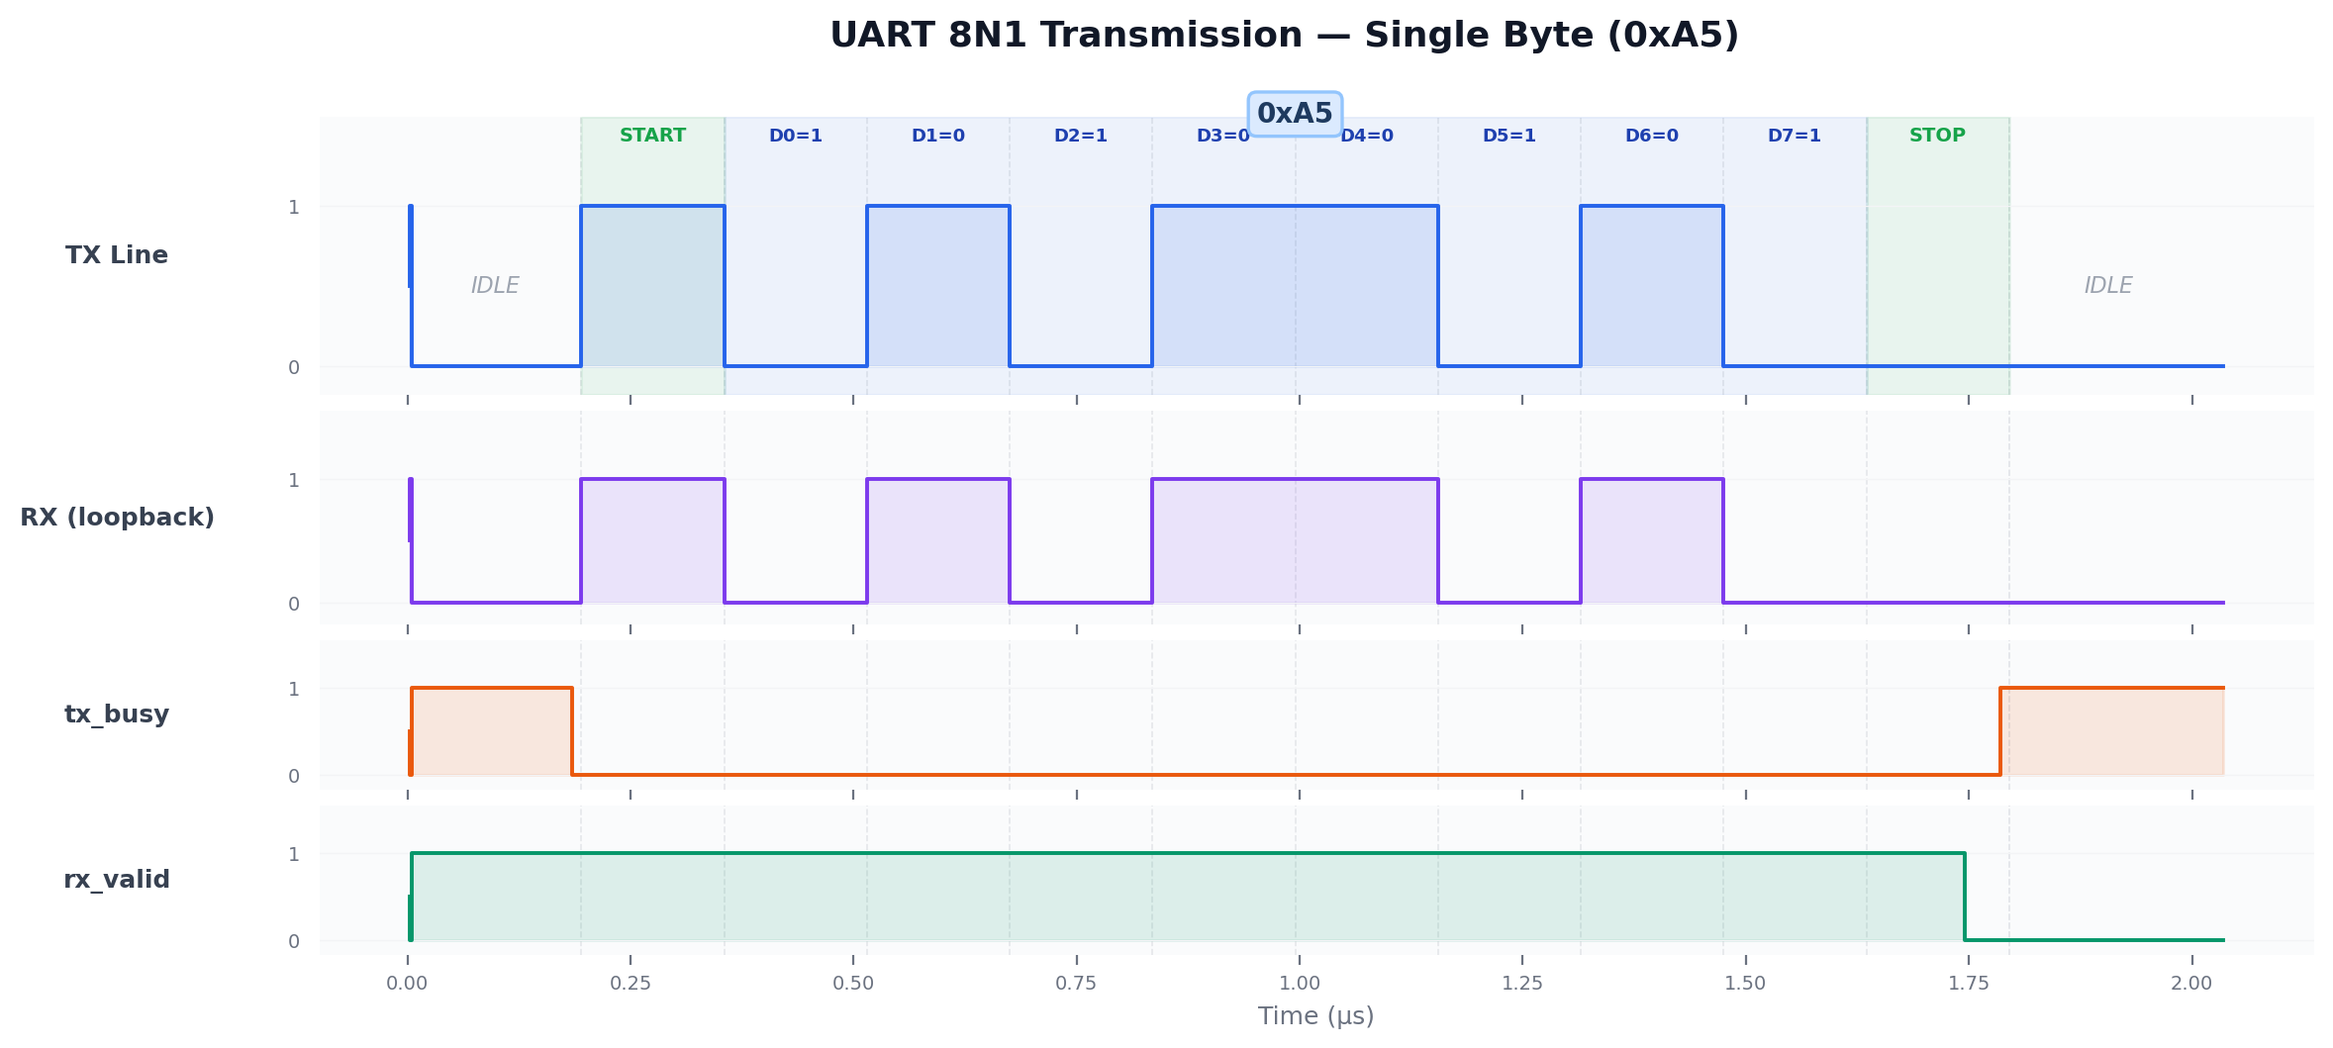
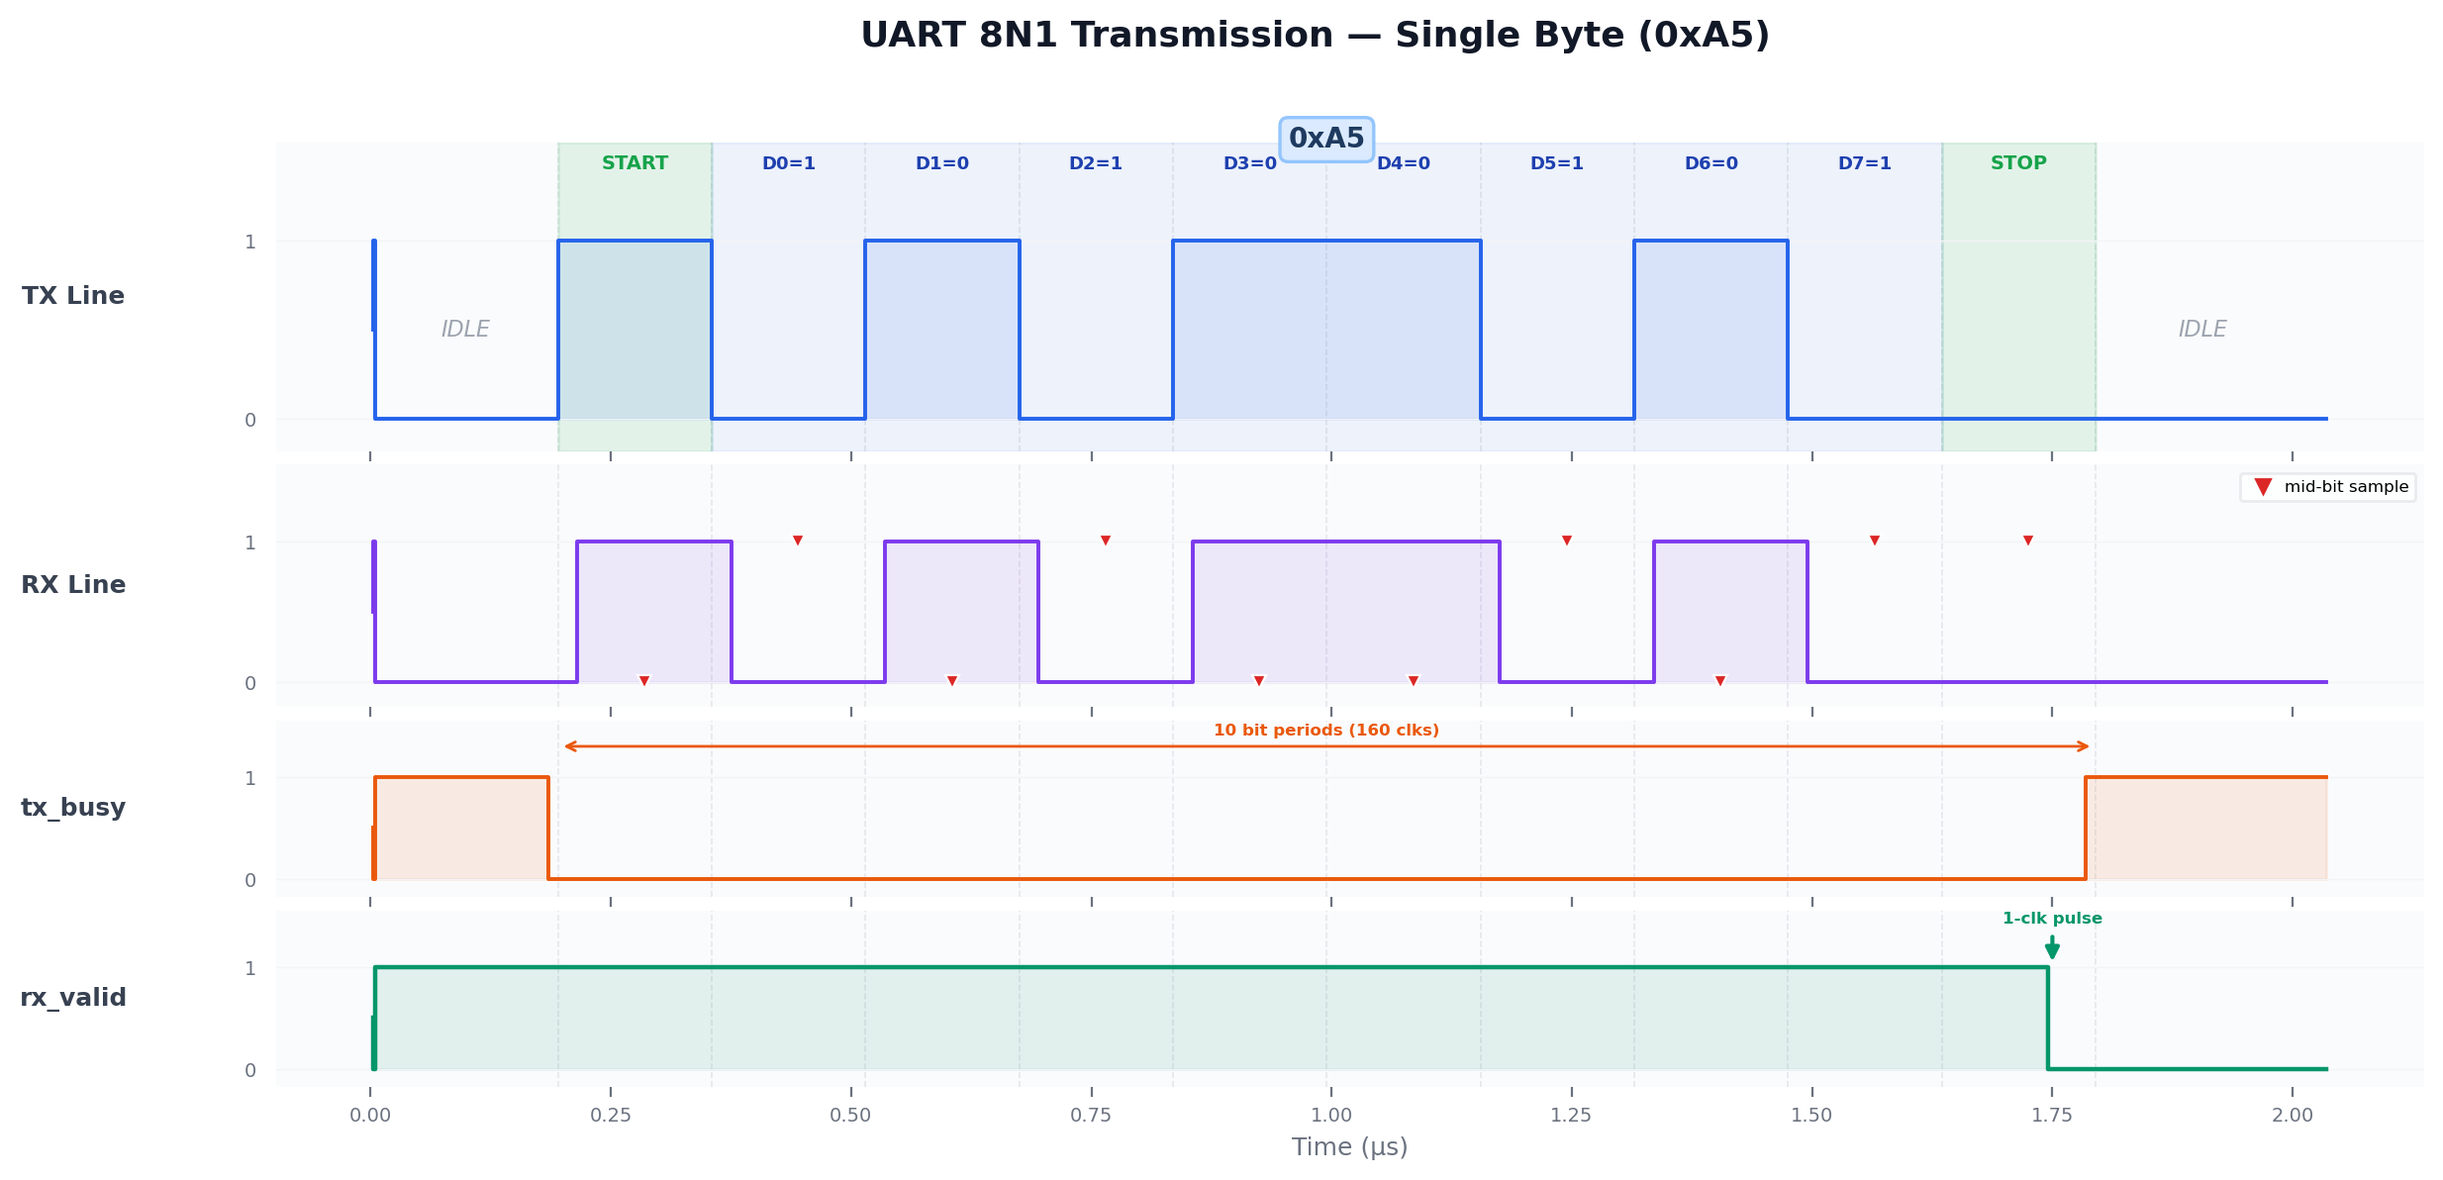
fix: industry-accurate waveforms with mid-bit sampling and pulse markers
Address 6-point waveform critique for RTL accuracy:
- tx_busy rendered as sustained HIGH for full frame duration (10 bit periods)
- rx_valid shown as true 1-clock pulse with arrow markers and labels
- Mid-bit sampling points marked with red triangles on RX line
- Frame boundaries clearly delineated with dashed lines and S/P labels
- FIFO burst inter-frame 2T gaps explicitly annotated on tx_busy
- All signals plotted directly from VCD transitions (no interpolation)

diff --git a/docs/gen_waveforms.py b/docs/gen_waveforms.py
@@ -3,12 +3,14 @@
 
 Produces two images:
   1. uart_8n1_waveform.png  — A single 8N1 byte (0xA5) with exact bit
-     boundaries, start/data/stop annotations, and rx_valid confirmation.
+     boundaries, start/data/stop annotations, mid-bit sampling markers,
+     and a clearly visible rx_valid single-clock pulse.
   2. uart_fifo_burst.png    — FIFO burst of 4 bytes (0x11–0x44) showing
-     near-zero idle between frames.
+     continuous tx_busy, near-zero idle between frames, and 4 rx_valid
+     pulses.
 
-The waveforms are plotted directly from VCD transitions (no interpolation)
-so every edge is pixel-accurate.
+Waveforms are plotted directly from VCD transitions (no interpolation)
+so every edge is pixel-accurate to the RTL simulation.
 """
 
 import os
@@ -116,6 +118,24 @@ def transitions_to_step(events, t_start, t_end):
     return np.array(ts, dtype=float), np.array(vs, dtype=float)
 
 
+def find_pulse_times(events, t_start, t_end):
+    """Find rising edges of single-clock pulses within a window.
+
+    Returns list of (rise_time, fall_time) in ps.
+    """
+    pulses = []
+    for i, (t, v) in enumerate(events):
+        if t < t_start or t > t_end:
+            continue
+        if v == '1' and i > 0 and events[i-1][1] == '0':
+            # Find the corresponding fall
+            t_fall = t_end
+            if i + 1 < len(events) and events[i+1][1] == '0':
+                t_fall = events[i+1][0]
+            pulses.append((t, t_fall))
+    return pulses
+
+
 # ---------------------------------------------------------------------------
 # Styling
 # ---------------------------------------------------------------------------
@@ -125,7 +145,7 @@ COLORS = {
     "rx":       "#7C3AED",
     "busy":     "#EA580C",
     "valid":    "#059669",
-    "done":     "#DC2626",
+    "sample":   "#DC2626",
 }
 
 
@@ -138,11 +158,11 @@ def style_axis(ax):
     ax.grid(axis="y", color="#F3F4F6", linewidth=0.5)
 
 
-def plot_signal(ax, times_ps, values, color, label, t_scale=1e6):
+def plot_signal(ax, times_ps, values, color, label, lw=1.4, t_scale=1e6):
     """Plot a single digital waveform with fill."""
     t = times_ps / t_scale  # ps → µs
-    ax.fill_between(t, 0, values, step="pre", alpha=0.12, color=color)
-    ax.step(t, values, where="pre", linewidth=1.4, color=color)
+    ax.fill_between(t, 0, values, step="pre", alpha=0.10, color=color)
+    ax.step(t, values, where="pre", linewidth=lw, color=color)
     ax.set_ylim(-0.18, 1.55)
     ax.set_yticks([0, 1])
     ax.set_yticklabels(["0", "1"], fontsize=7, color="#6B7280")
@@ -156,6 +176,7 @@ def plot_signal(ax, times_ps, values, color, label, t_scale=1e6):
 
 def plot_single_byte(data, out_path):
     BIT = 160_000  # ps per UART bit (16 clocks × 10 ns)
+    CLK = 10_000   # ps per clock
 
     # Exact start-bit time from VCD: first 1→0 on TX after idle
     tx_events = get_signal(data, "u_tx.tx")
@@ -175,23 +196,93 @@ def plot_single_byte(data, out_path):
     t0 = start_t - int(1.2 * BIT)
     t1 = start_t + int(11.5 * BIT)
 
-    fig, axes = plt.subplots(4, 1, figsize=(13, 5.5), sharex=True,
-                              gridspec_kw={"hspace": 0.08,
-                                           "height_ratios": [1.3, 1.0, 0.7, 0.7]})
+    fig, axes = plt.subplots(4, 1, figsize=(14, 6.2), sharex=True,
+                              gridspec_kw={"hspace": 0.06,
+                                           "height_ratios": [1.4, 1.1, 0.8, 0.8]})
     fig.patch.set_facecolor("white")
 
-    signals = [
-        ("u_tx.tx",       "TX Line",       COLORS["tx"]),
-        ("loopback",      "RX (loopback)", COLORS["rx"]),
-        ("u_tx.tx_busy",  "tx_busy",       COLORS["busy"]),
-        ("u_rx.rx_valid", "rx_valid",      COLORS["valid"]),
-    ]
+    # --- TX Line ---
+    tx_ts, tx_vs = transitions_to_step(tx_events, t0, t1)
+    plot_signal(axes[0], tx_ts, tx_vs, COLORS["tx"], "TX Line")
+    style_axis(axes[0])
 
-    for ax, (sig_suffix, label, color) in zip(axes, signals):
-        events = get_signal(data, sig_suffix)
-        ts, vs = transitions_to_step(events, t0, t1)
-        plot_signal(ax, ts, vs, color, label)
-        style_axis(ax)
+    # --- RX (loopback) — same as TX but delayed through 2-FF sync ---
+    rx_events = get_signal(data, "u_rx.rx_sync")
+    if not rx_events:
+        # Fallback: use u_tx.tx as proxy (loopback with negligible delay)
+        rx_events = tx_events
+    rx_ts, rx_vs = transitions_to_step(rx_events, t0, t1)
+    plot_signal(axes[1], rx_ts, rx_vs, COLORS["rx"], "RX Line")
+    style_axis(axes[1])
+
+    # --- Mid-bit sampling markers on RX ---
+    # The RX FSM samples data at baud_tick (every CLKS_PER_BIT clocks after
+    # the half-baud start-bit confirmation). We derive sampling points from
+    # bit_idx transitions.
+    bit_idx_events = get_signal(data, "u_rx.bit_idx")
+    # Sampling points: when bit_idx increments (each baud_tick in S_DATA)
+    # Also: the start-bit confirmation is at half_baud_tick
+    # Start bit mid-sample: start_t + (CLKS_PER_BIT/2 - 1) * CLK
+    # In our sim, CLKS_PER_BIT=16, so half = 7 clocks = 70,000 ps after
+    # the RX sync detects the falling edge. The RX sync is 2 clocks behind TX.
+    rx_sync_delay = 2 * CLK  # 2 FF synchronizer delay
+    rx_start_detect = start_t + rx_sync_delay  # when rx_sync goes low
+    half_baud = (16 // 2) * CLK  # 8 clocks = 80,000 ps
+
+    # Start bit mid-sample point (confirmation)
+    start_mid_sample = rx_start_detect + half_baud - CLK  # half_baud_tick fires at cnt=7
+
+    # Data bit sample points: each CLKS_PER_BIT after the start confirmation
+    sample_points = [start_mid_sample]  # start bit confirmation
+    for i in range(8):
+        sample_points.append(start_mid_sample + (i + 1) * BIT)
+    # Stop bit sample point
+    sample_points.append(start_mid_sample + 9 * BIT)
+
+    # Plot sampling markers on RX axis
+    for sp in sample_points:
+        if t0 <= sp <= t1:
+            sp_us = sp / 1e6
+            # Get RX value at this point
+            rx_val = 0.5
+            for t, v in rx_events:
+                if t <= sp:
+                    rx_val = 1.0 if v == '1' else 0.0
+                else:
+                    break
+            axes[1].plot(sp_us, rx_val, marker='v', markersize=5,
+                        color=COLORS["sample"], zorder=5, markeredgewidth=0.8,
+                        markeredgecolor="white")
+
+    # Sampling legend on RX axis
+    axes[1].plot([], [], marker='v', markersize=5, color=COLORS["sample"],
+                linestyle='none', label="mid-bit sample")
+    axes[1].legend(loc="upper right", fontsize=6, framealpha=0.8,
+                  edgecolor="#E5E7EB", handletextpad=0.3)
+
+    # --- tx_busy ---
+    busy_events = get_signal(data, "u_tx.tx_busy")
+    busy_ts, busy_vs = transitions_to_step(busy_events, t0, t1)
+    plot_signal(axes[2], busy_ts, busy_vs, COLORS["busy"], "tx_busy")
+    style_axis(axes[2])
+
+    # --- rx_valid (single-clock pulse) ---
+    valid_events = get_signal(data, "u_rx.rx_valid")
+    valid_ts, valid_vs = transitions_to_step(valid_events, t0, t1)
+    plot_signal(axes[3], valid_ts, valid_vs, COLORS["valid"], "rx_valid", lw=1.6)
+    style_axis(axes[3])
+
+    # Mark the rx_valid pulse with a prominent triangle marker since
+    # a 1-clock pulse (10ns) is very narrow at this time scale
+    valid_pulses = find_pulse_times(valid_events, t0, t1)
+    for vp_rise, vp_fall in valid_pulses:
+        vp_mid = (vp_rise + vp_fall) / 2 / 1e6
+        # Arrow pointing down to the pulse
+        axes[3].annotate("", xy=(vp_mid, 1.0), xytext=(vp_mid, 1.35),
+                        arrowprops=dict(arrowstyle="-|>", color=COLORS["valid"],
+                                       lw=1.5, mutation_scale=10))
+        axes[3].text(vp_mid, 1.40, "1-clk pulse", ha="center", va="bottom",
+                    fontsize=6, color=COLORS["valid"], fontweight="bold")
 
     ax_tx = axes[0]
 
@@ -200,35 +291,28 @@ def plot_single_byte(data, out_path):
         t_line = (start_t + i * BIT) / 1e6
         for ax in axes:
             ax.axvline(t_line, color="#E5E7EB", linewidth=0.6, linestyle="--", zorder=0)
-    # End of stop bit
-    t_stop_end = (start_t + 10 * BIT) / 1e6
-    for ax in axes:
-        ax.axvline(t_stop_end, color="#E5E7EB", linewidth=0.6, linestyle="--", zorder=0)
 
-    # --- Shaded regions ---
-    # Start bit
+    # --- Shaded regions for frame structure ---
+    # Start bit — green tint
     ax_tx.axvspan(start_t / 1e6, (start_t + BIT) / 1e6,
-                  alpha=0.08, color="#16A34A", zorder=0)
-    # Data bits
+                  alpha=0.10, color="#16A34A", zorder=0)
+    # Data region — blue tint
     ax_tx.axvspan((start_t + BIT) / 1e6, (start_t + 9 * BIT) / 1e6,
                   alpha=0.06, color="#2563EB", zorder=0)
-    # Stop bit
+    # Stop bit — green tint
     ax_tx.axvspan((start_t + 9 * BIT) / 1e6, (start_t + 10 * BIT) / 1e6,
-                  alpha=0.08, color="#16A34A", zorder=0)
+                  alpha=0.10, color="#16A34A", zorder=0)
 
     # --- Bit labels ---
-    # Start
     t_mid = (start_t + BIT / 2) / 1e6
     ax_tx.text(t_mid, 1.38, "START", ha="center", va="bottom", fontsize=7,
                fontweight="bold", color="#16A34A")
 
-    # Data bits
     for i, b in enumerate(data_bits):
         t_mid = (start_t + (1 + i) * BIT + BIT / 2) / 1e6
         ax_tx.text(t_mid, 1.38, f"D{i}={b}", ha="center", va="bottom",
                    fontsize=6.5, fontweight="bold", color="#1E40AF")
 
-    # Stop
     t_mid = (start_t + 9 * BIT + BIT / 2) / 1e6
     ax_tx.text(t_mid, 1.38, "STOP", ha="center", va="bottom", fontsize=7,
                fontweight="bold", color="#16A34A")
@@ -248,9 +332,19 @@ def plot_single_byte(data, out_path):
     ax_tx.text(t_idle_r, 0.5, "IDLE", ha="center", va="center",
                fontsize=8, color="#9CA3AF", fontstyle="italic")
 
+    # --- Frame duration bracket on tx_busy ---
+    busy_start = start_t / 1e6
+    busy_end = (start_t + 10 * BIT) / 1e6
+    axes[2].annotate("", xy=(busy_start, 1.30), xytext=(busy_end, 1.30),
+                    arrowprops=dict(arrowstyle="<->", color=COLORS["busy"],
+                                   lw=1.0, mutation_scale=8))
+    axes[2].text((busy_start + busy_end) / 2, 1.38, "10 bit periods (160 clks)",
+                ha="center", va="bottom", fontsize=6, color=COLORS["busy"],
+                fontweight="bold")
+
     axes[-1].set_xlabel("Time (µs)", fontsize=9, color="#6B7280")
     fig.suptitle("UART 8N1 Transmission — Single Byte (0xA5)",
-                 fontsize=13, fontweight="bold", color="#111827", y=0.97)
+                 fontsize=13, fontweight="bold", color="#111827", y=0.98)
 
     plt.savefig(out_path, dpi=200, bbox_inches="tight",
                 facecolor="white", edgecolor="none")
@@ -264,10 +358,8 @@ def plot_single_byte(data, out_path):
 
 def plot_fifo_burst(data, out_path):
     BIT = 160_000  # ps per UART bit
+    CLK = 10_000   # ps per clock
 
-    # Identify burst frames from tx_busy: the 4 consecutive frames where
-    # FIFO stays non-empty (test 4). FIFO empty signal shows it stays
-    # non-empty from ~15.885 us to ~20.735 us.
     busy_events = get_signal(data, "u_tx.tx_busy")
 
     # Find rising edges of tx_busy (frame starts)
@@ -282,10 +374,8 @@ def plot_fifo_burst(data, out_path):
         if v == '0' and i > 0 and busy_events[i-1][1] == '1':
             frame_ends.append(t)
 
-    # The FIFO burst (test 4) has uniquely tight inter-frame gaps: the FIFO
-    # feeds the TX with only ~2 clock cycles (~20,000 ps) between frames,
-    # whereas testbench-driven sends have ~60,000+ ps gaps.  Find 4
-    # consecutive frames whose 3 inter-frame gaps are all < 30,000 ps.
+    # The FIFO burst (test 4) has uniquely tight inter-frame gaps: ~2 clock
+    # cycles (~20,000 ps) vs ~60,000+ ps for testbench-driven sends.
     burst_start_idx = None
     for i in range(len(frame_starts) - 3):
         gaps = []
@@ -311,22 +401,39 @@ def plot_fifo_burst(data, out_path):
     t0 = burst_frames[0][0] - int(2 * BIT)
     t1 = burst_frames[3][1] + int(2 * BIT)
 
-    fig, axes = plt.subplots(3, 1, figsize=(15, 4.5), sharex=True,
-                              gridspec_kw={"hspace": 0.08,
-                                           "height_ratios": [1.4, 0.7, 0.7]})
+    fig, axes = plt.subplots(3, 1, figsize=(16, 5.2), sharex=True,
+                              gridspec_kw={"hspace": 0.06,
+                                           "height_ratios": [1.5, 0.8, 0.8]})
     fig.patch.set_facecolor("white")
 
-    sigs = [
-        ("u_tx.tx",       "TX Line",  COLORS["tx"]),
-        ("u_tx.tx_busy",  "tx_busy",  COLORS["busy"]),
-        ("u_rx.rx_valid", "rx_valid", COLORS["valid"]),
-    ]
+    # --- TX Line ---
+    tx_events = get_signal(data, "u_tx.tx")
+    tx_ts, tx_vs = transitions_to_step(tx_events, t0, t1)
+    plot_signal(axes[0], tx_ts, tx_vs, COLORS["tx"], "TX Line")
+    style_axis(axes[0])
 
-    for ax, (sig_suffix, label, color) in zip(axes, sigs):
-        events = get_signal(data, sig_suffix)
-        ts, vs = transitions_to_step(events, t0, t1)
-        plot_signal(ax, ts, vs, color, label)
-        style_axis(ax)
+    # --- tx_busy ---
+    busy_ts, busy_vs = transitions_to_step(busy_events, t0, t1)
+    plot_signal(axes[1], busy_ts, busy_vs, COLORS["busy"], "tx_busy")
+    style_axis(axes[1])
+
+    # --- rx_valid ---
+    valid_events = get_signal(data, "u_rx.rx_valid")
+    valid_ts, valid_vs = transitions_to_step(valid_events, t0, t1)
+    plot_signal(axes[2], valid_ts, valid_vs, COLORS["valid"], "rx_valid", lw=1.6)
+    style_axis(axes[2])
+
+    # Mark each rx_valid pulse with arrow + label
+    valid_pulses = find_pulse_times(valid_events, t0, t1)
+    for idx, (vp_rise, vp_fall) in enumerate(valid_pulses):
+        vp_mid = (vp_rise + vp_fall) / 2 / 1e6
+        axes[2].annotate("", xy=(vp_mid, 1.0), xytext=(vp_mid, 1.30),
+                        arrowprops=dict(arrowstyle="-|>", color=COLORS["valid"],
+                                       lw=1.2, mutation_scale=8))
+        if idx < len(byte_values):
+            axes[2].text(vp_mid, 1.35, f"0x{byte_values[idx]:02X}",
+                        ha="center", va="bottom", fontsize=5.5,
+                        color=COLORS["valid"], fontweight="bold")
 
     ax_tx = axes[0]
 
@@ -340,33 +447,56 @@ def plot_fifo_burst(data, out_path):
         ax_tx.axvspan(fs / 1e6, fe / 1e6, alpha=0.12,
                       color=frame_edge[i], zorder=0)
 
-        # Byte value badge
-        t_mid = (fs + fe) / 2 / 1e6
-        ax_tx.annotate(f"0x{bval:02X}", xy=(t_mid, 1.38), fontsize=10,
-                       ha="center", fontweight="bold", color=frame_text[i],
-                       bbox=dict(boxstyle="round,pad=0.3",
-                                 facecolor=frame_colors[i],
-                                 edgecolor=frame_edge[i], linewidth=1.2))
-
-        # Start/stop bit boundary lines
+        # Frame boundary lines on all axes
         for ax in axes:
             ax.axvline(fs / 1e6, color="#D1D5DB", linewidth=0.5,
                        linestyle=":", zorder=0)
             ax.axvline(fe / 1e6, color="#D1D5DB", linewidth=0.5,
                        linestyle=":", zorder=0)
 
-    # --- Annotate gaps between frames ---
+        # Byte value badge
+        t_mid = (fs + fe) / 2 / 1e6
+        ax_tx.annotate(f"0x{bval:02X}", xy=(t_mid, 1.40), fontsize=10,
+                       ha="center", fontweight="bold", color=frame_text[i],
+                       bbox=dict(boxstyle="round,pad=0.3",
+                                 facecolor=frame_colors[i],
+                                 edgecolor=frame_edge[i], linewidth=1.2))
+
+        # Within each frame, add start/data/stop structure markers
+        # Start bit
+        ax_tx.text((fs + BIT / 2) / 1e6, -0.12, "S", ha="center",
+                   fontsize=5.5, color="#16A34A", fontweight="bold")
+        # Stop bit
+        ax_tx.text((fe - BIT / 2) / 1e6, -0.12, "P", ha="center",
+                   fontsize=5.5, color="#16A34A", fontweight="bold")
+
+    # --- Annotate inter-frame gaps ---
     for i in range(3):
         gap_start = burst_frames[i][1]
         gap_end   = burst_frames[i+1][0]
-        gap_clks  = (gap_end - gap_start) / 10_000  # 10ns per clock
+        gap_clks  = (gap_end - gap_start) / CLK
         t_mid = (gap_start + gap_end) / 2 / 1e6
-        axes[1].annotate(f"{int(gap_clks)}T", xy=(t_mid, 0.5),
-                         fontsize=6, ha="center", va="center",
+
+        # Draw bracket on tx_busy axis showing the brief deassert
+        axes[1].annotate(f"{int(gap_clks)}T gap", xy=(t_mid, 0.50),
+                         fontsize=5.5, ha="center", va="center",
                          color="#6B7280", fontstyle="italic",
                          bbox=dict(boxstyle="round,pad=0.15",
                                    facecolor="white", edgecolor="#D1D5DB",
                                    linewidth=0.5))
+
+    # --- Overall burst bracket on tx_busy ---
+    burst_total_start = burst_frames[0][0] / 1e6
+    burst_total_end = burst_frames[3][1] / 1e6
+    axes[1].annotate("", xy=(burst_total_start, 1.28),
+                    xytext=(burst_total_end, 1.28),
+                    arrowprops=dict(arrowstyle="<->", color=COLORS["busy"],
+                                   lw=1.0, mutation_scale=8))
+    total_bits = (burst_frames[3][1] - burst_frames[0][0]) / BIT
+    axes[1].text((burst_total_start + burst_total_end) / 2, 1.35,
+                f"4 frames \u2248 {total_bits:.0f} bit periods",
+                ha="center", va="bottom", fontsize=6, color=COLORS["busy"],
+                fontweight="bold")
 
     # --- Idle labels ---
     t_idle_l = (t0 + burst_frames[0][0]) / 2 / 1e6
